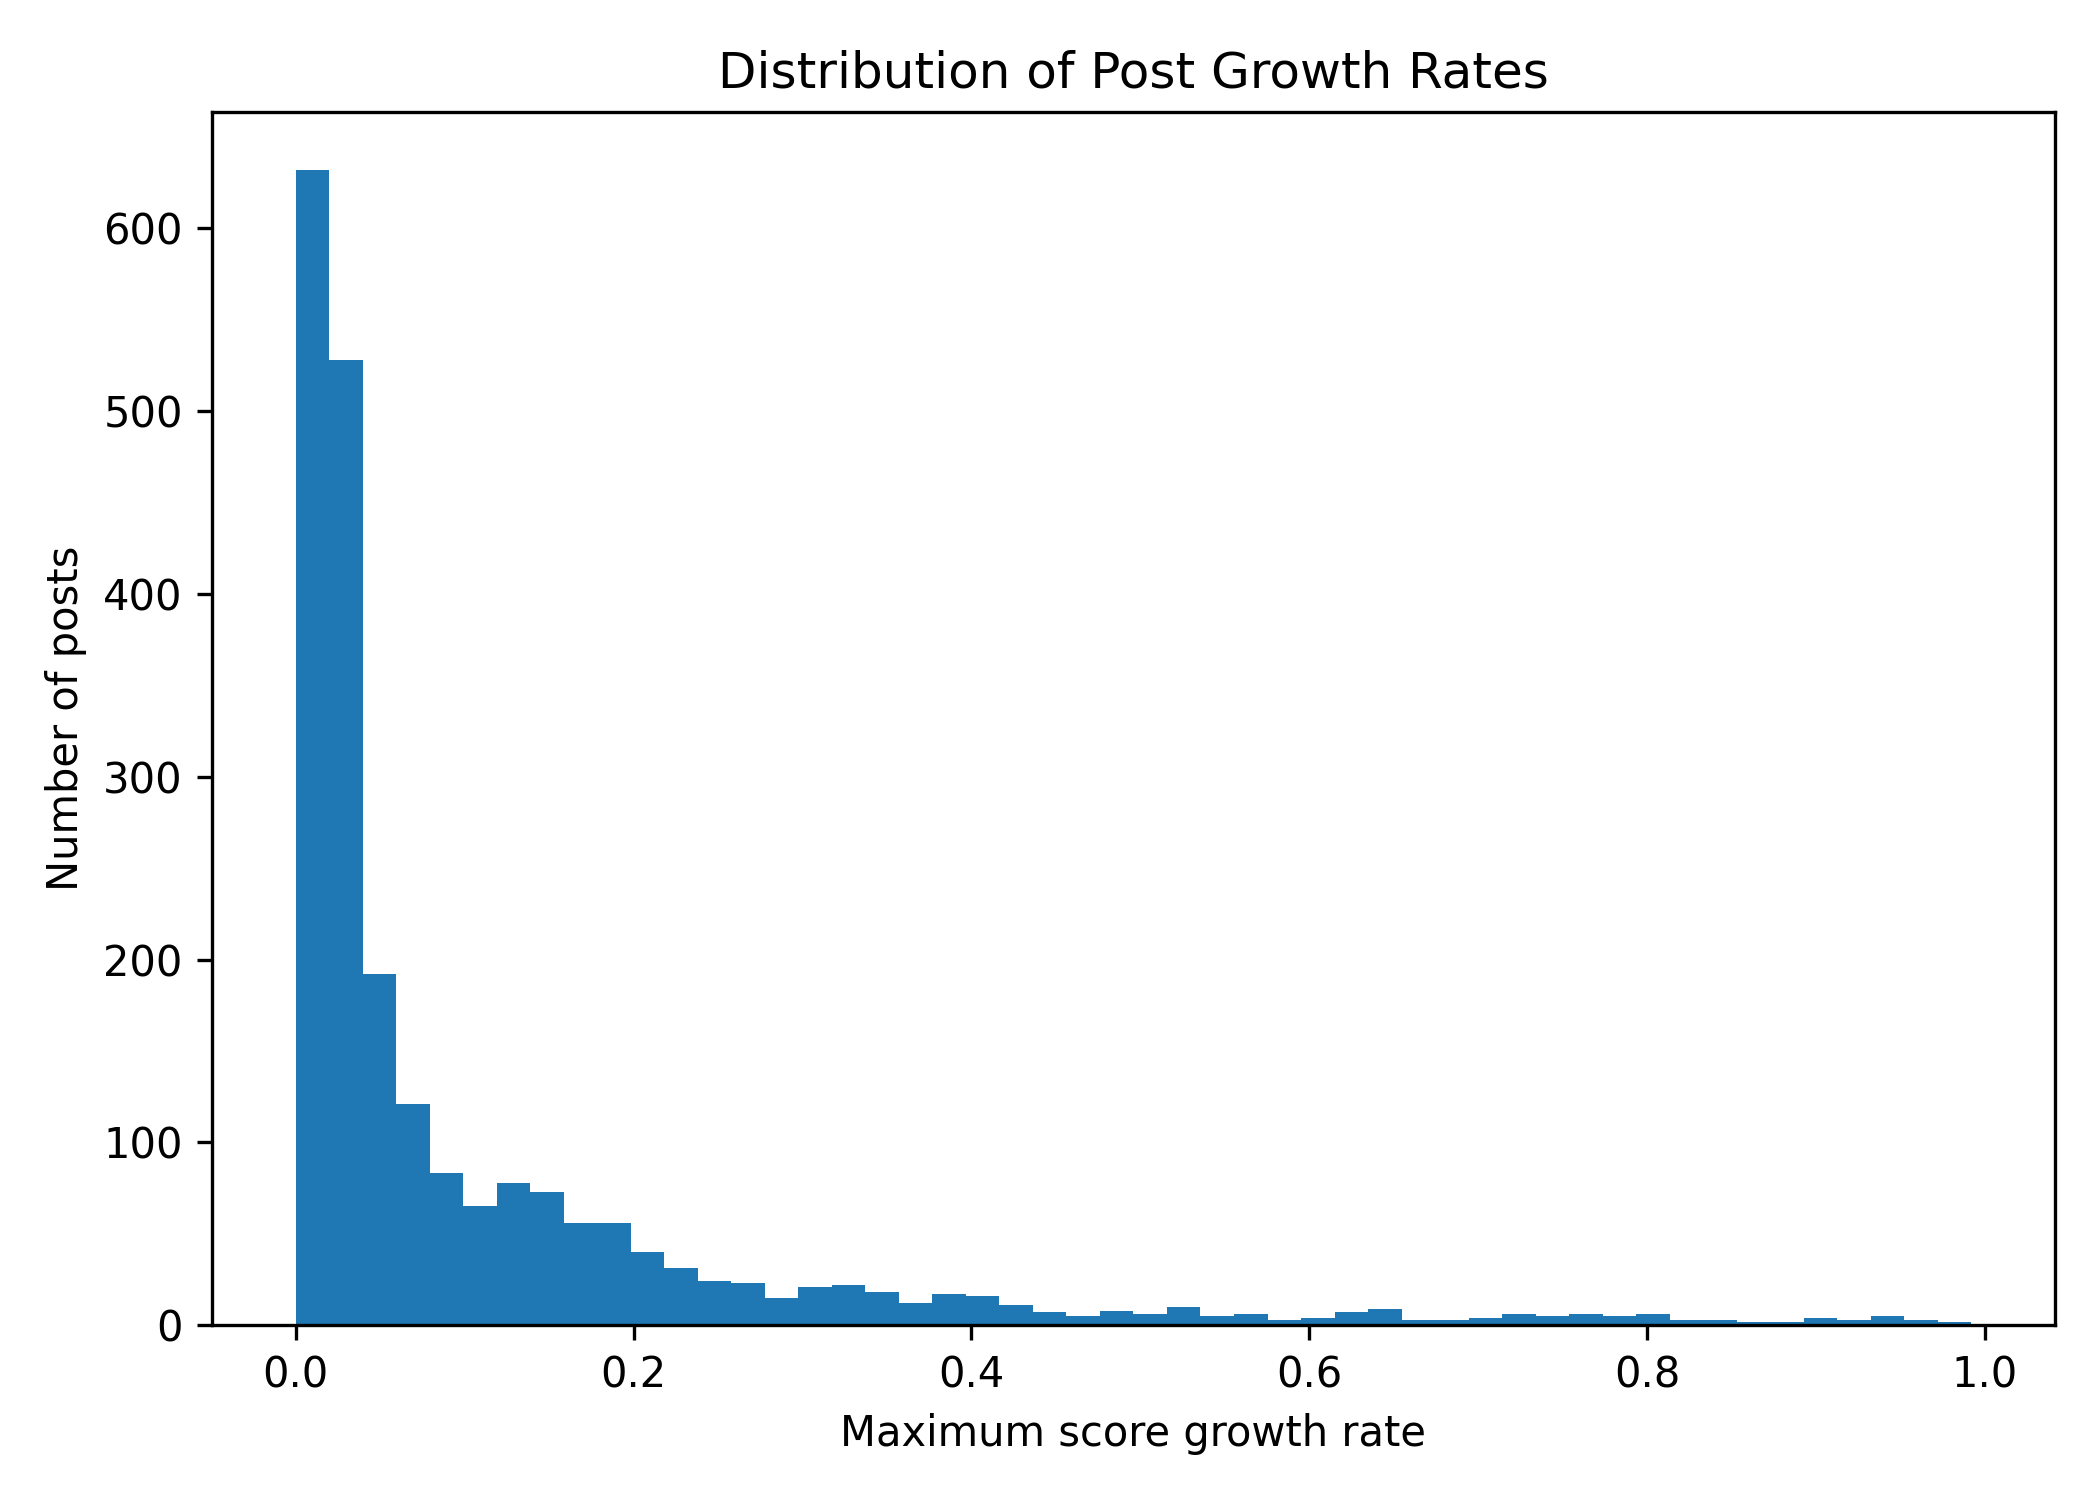
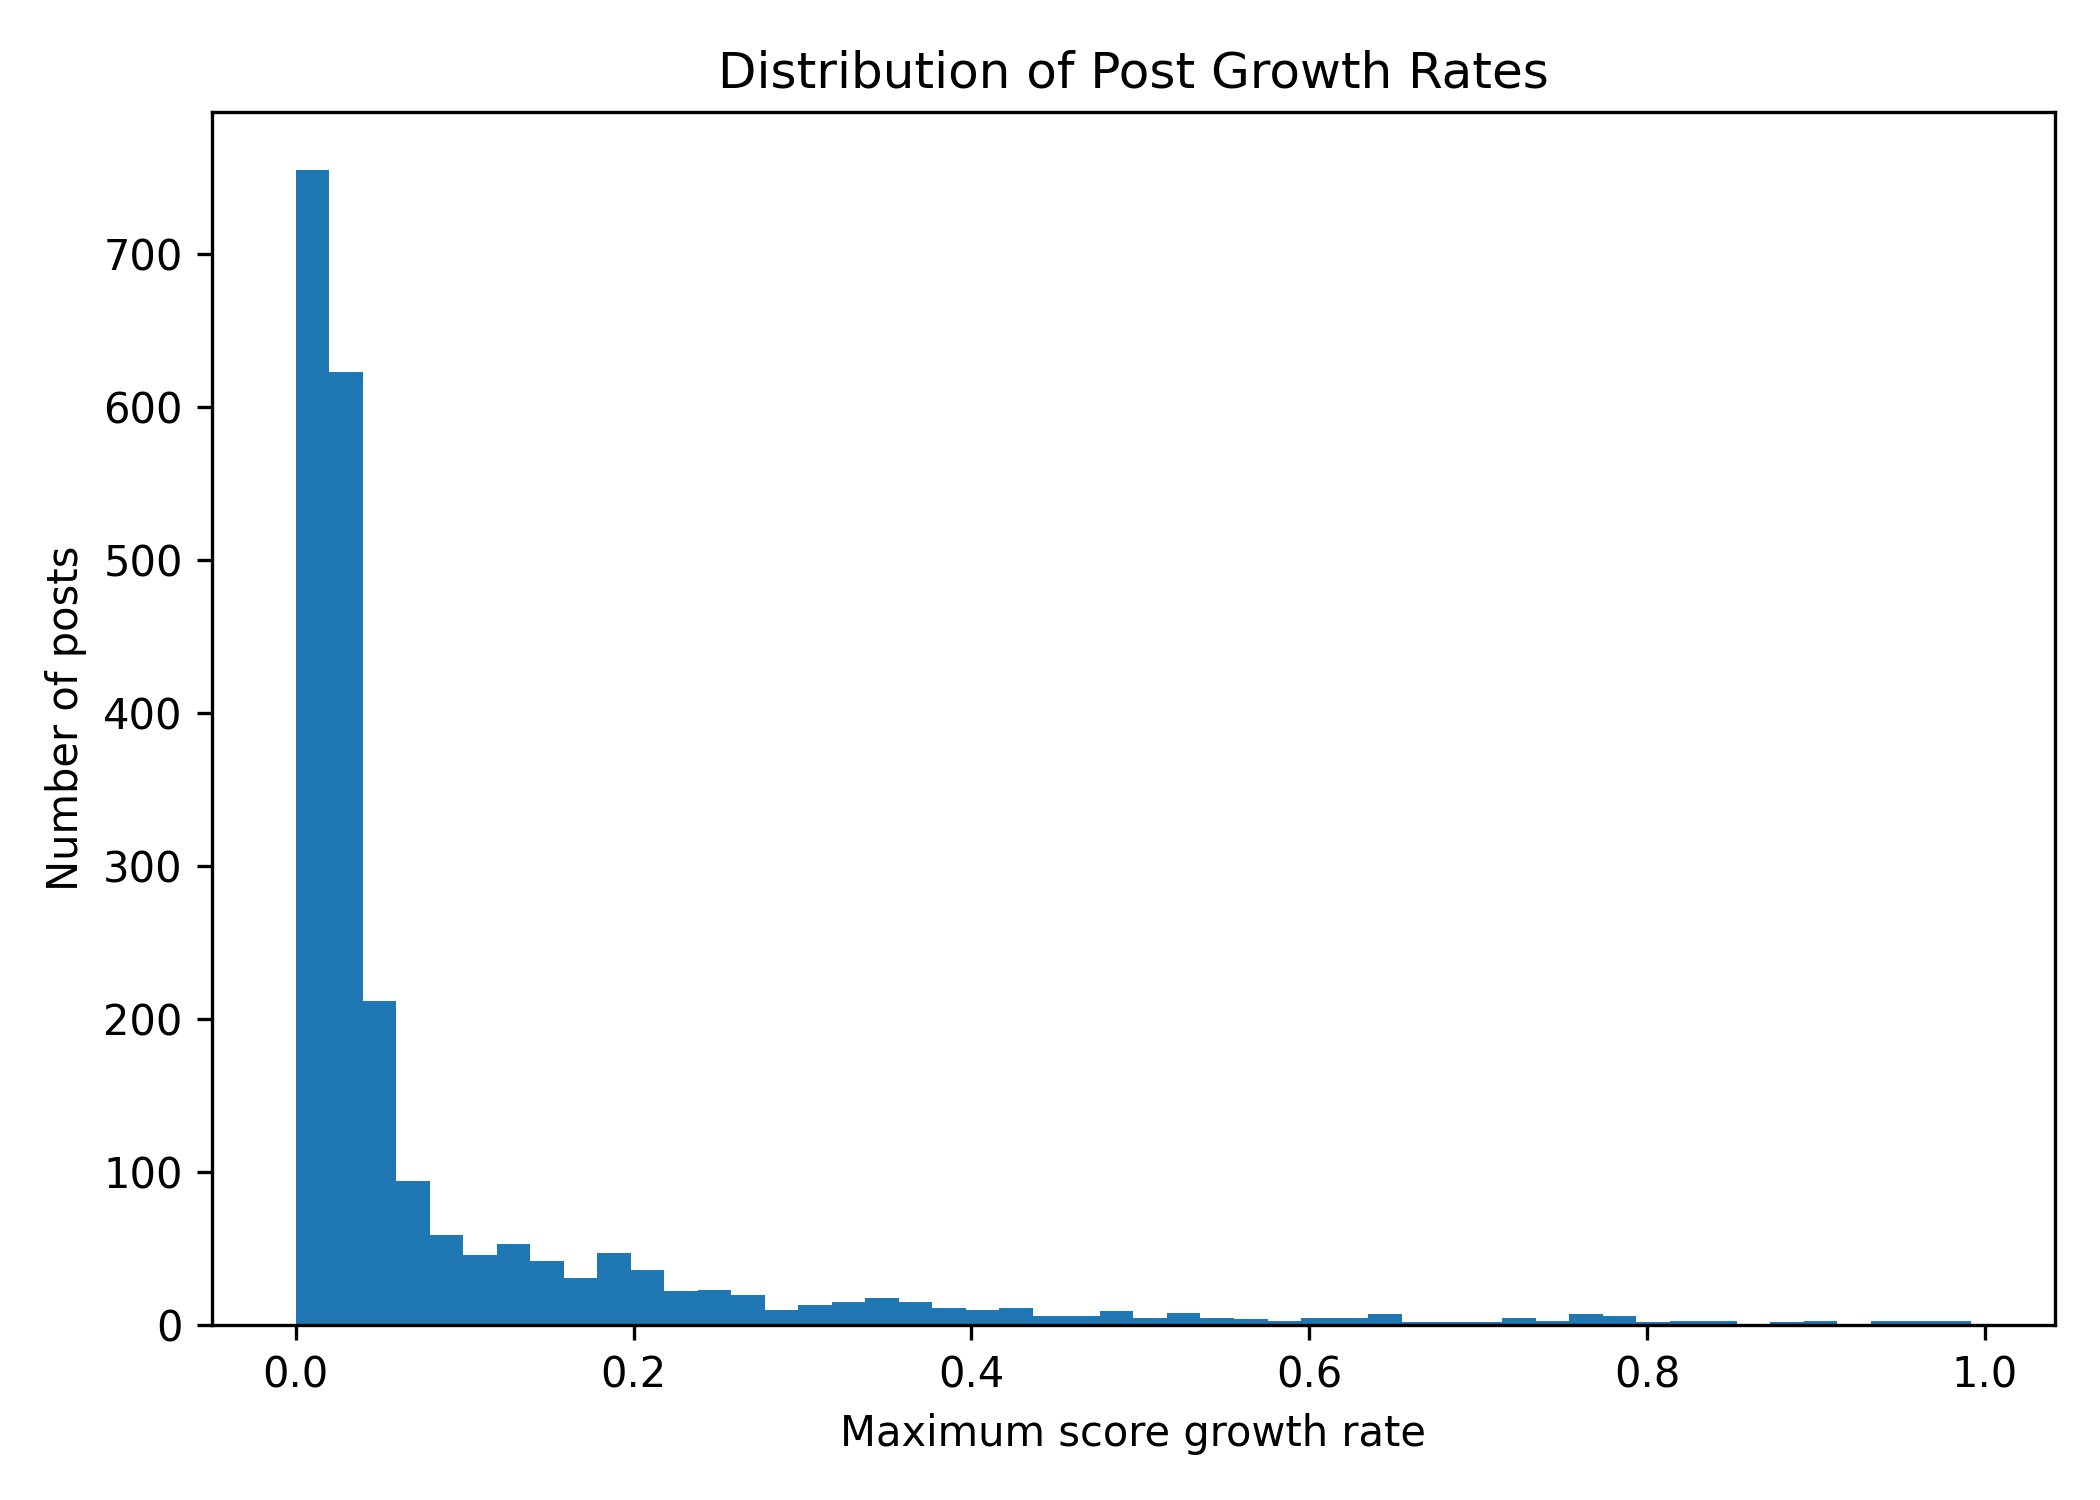
removed duplicate posts across sessions and only kept the max_score_rate for metrics

diff --git a/main.py b/main.py
@@ -8,7 +8,14 @@ def main():
 
     # 1. Load data
     df = load_all_summaries("derived")
-    print("Total rows:", len(df))
+    print("Total rows before deduplication:", len(df))
+
+    # Deduplicate posts by keeping the row with the highest observed max_score_rate
+    df = df.sort_values("max_score_rate", ascending=False)
+    df = df.drop_duplicates(subset=["post_id"], keep="first")
+    df = df.reset_index(drop=True)
+
+    print("Total unique posts after deduplication:", len(df))
     print("Columns:", list(df.columns))
 
     # 2. Basic stats

diff --git a/scripts/debug_tail.py b/scripts/debug_tail.py
@@ -1,0 +1,14 @@
+from pathlib import Path
+from load_data import load_all_summaries
+
+PROJECT_ROOT = Path(__file__).resolve().parents[1]
+DERIVED_DIR = PROJECT_ROOT / "derived"
+
+df = load_all_summaries(DERIVED_DIR)
+
+tail = df[df["max_score_rate"] > 2.0] \
+    .sort_values("max_score_rate", ascending=False)
+
+print("\n=== EXTREME TAIL POSTS (> 2.0) ===")
+print(tail[["post_id", "max_score_rate", "total_dscore", "total_dt_seconds"]])
+print("\nCount:", len(tail))
